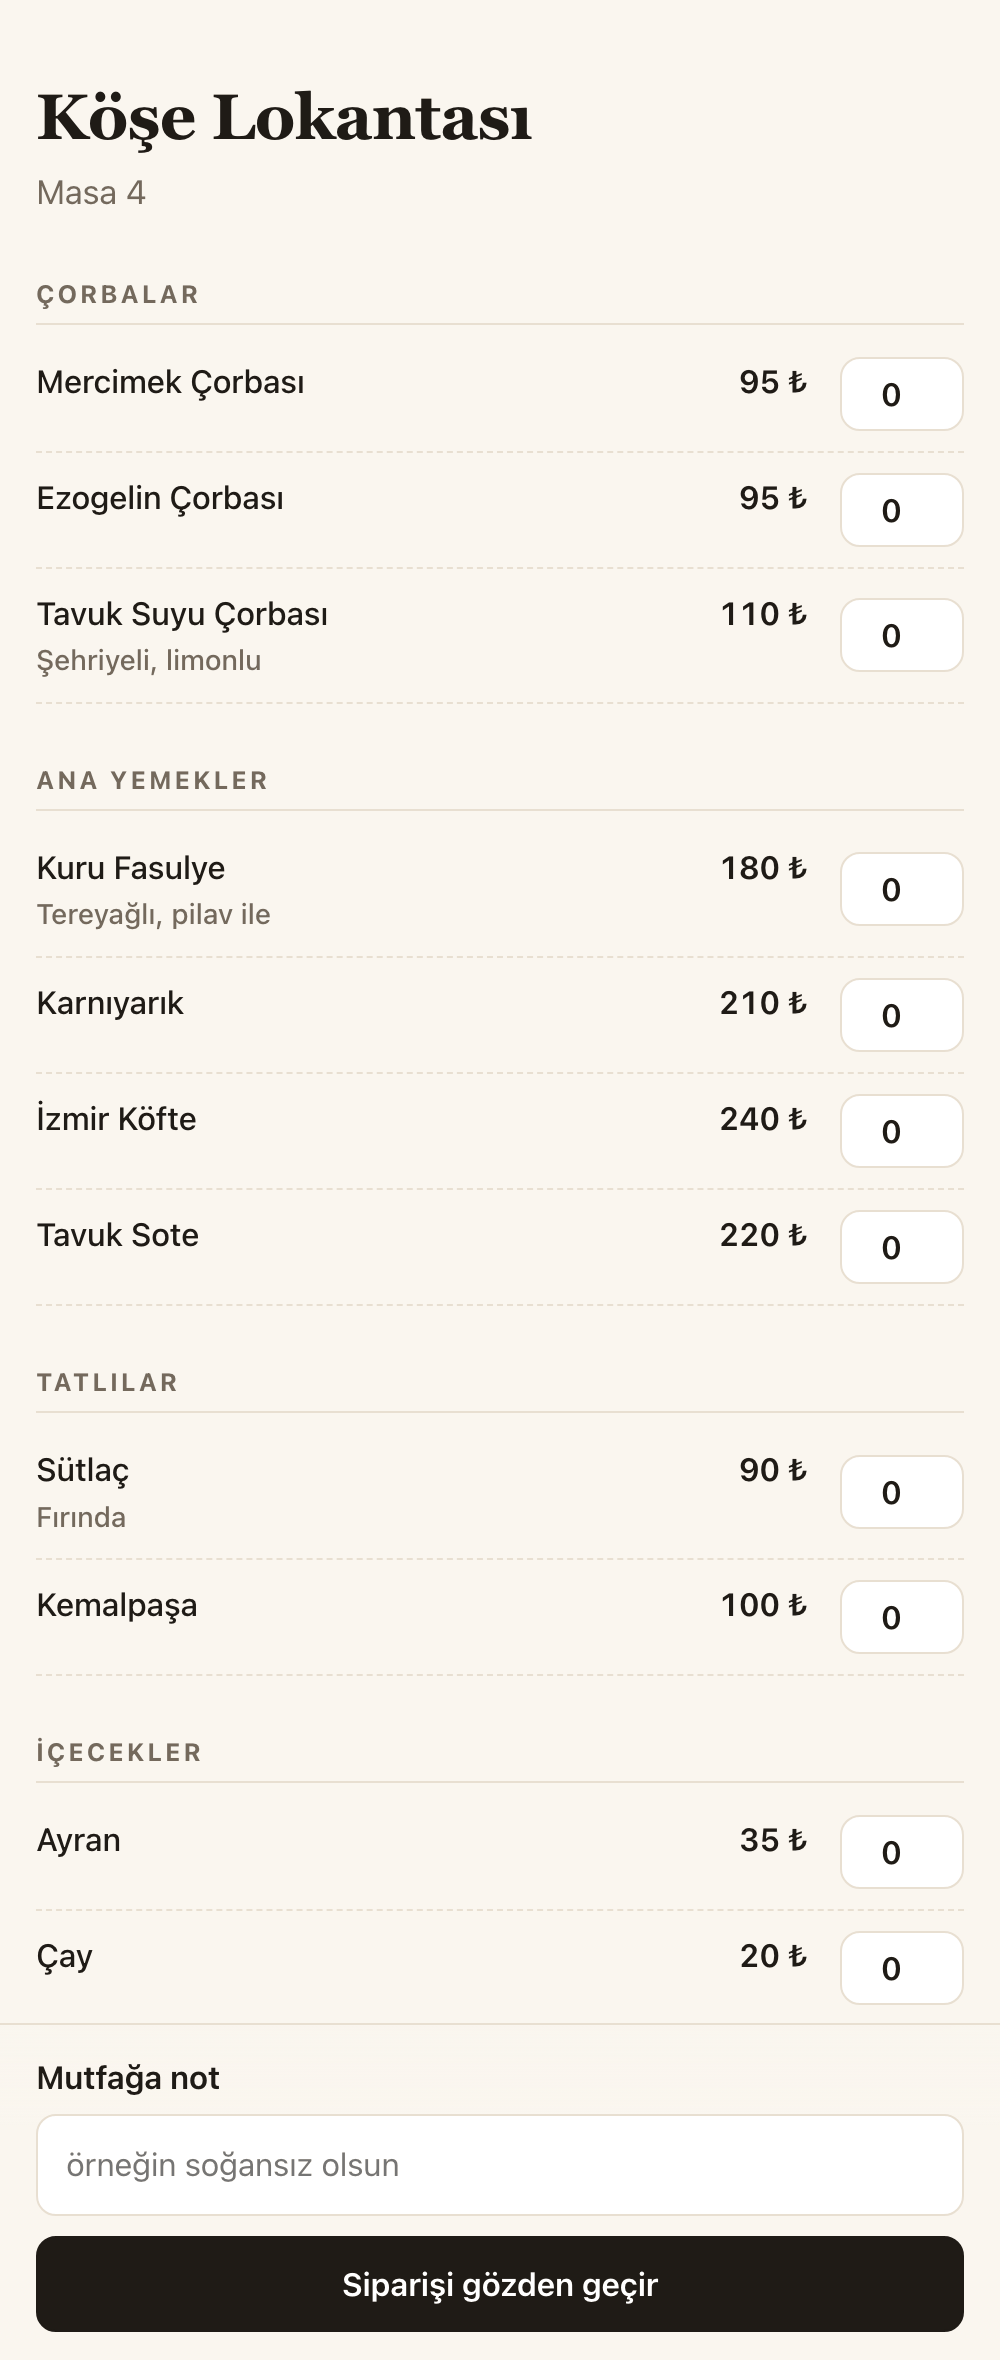
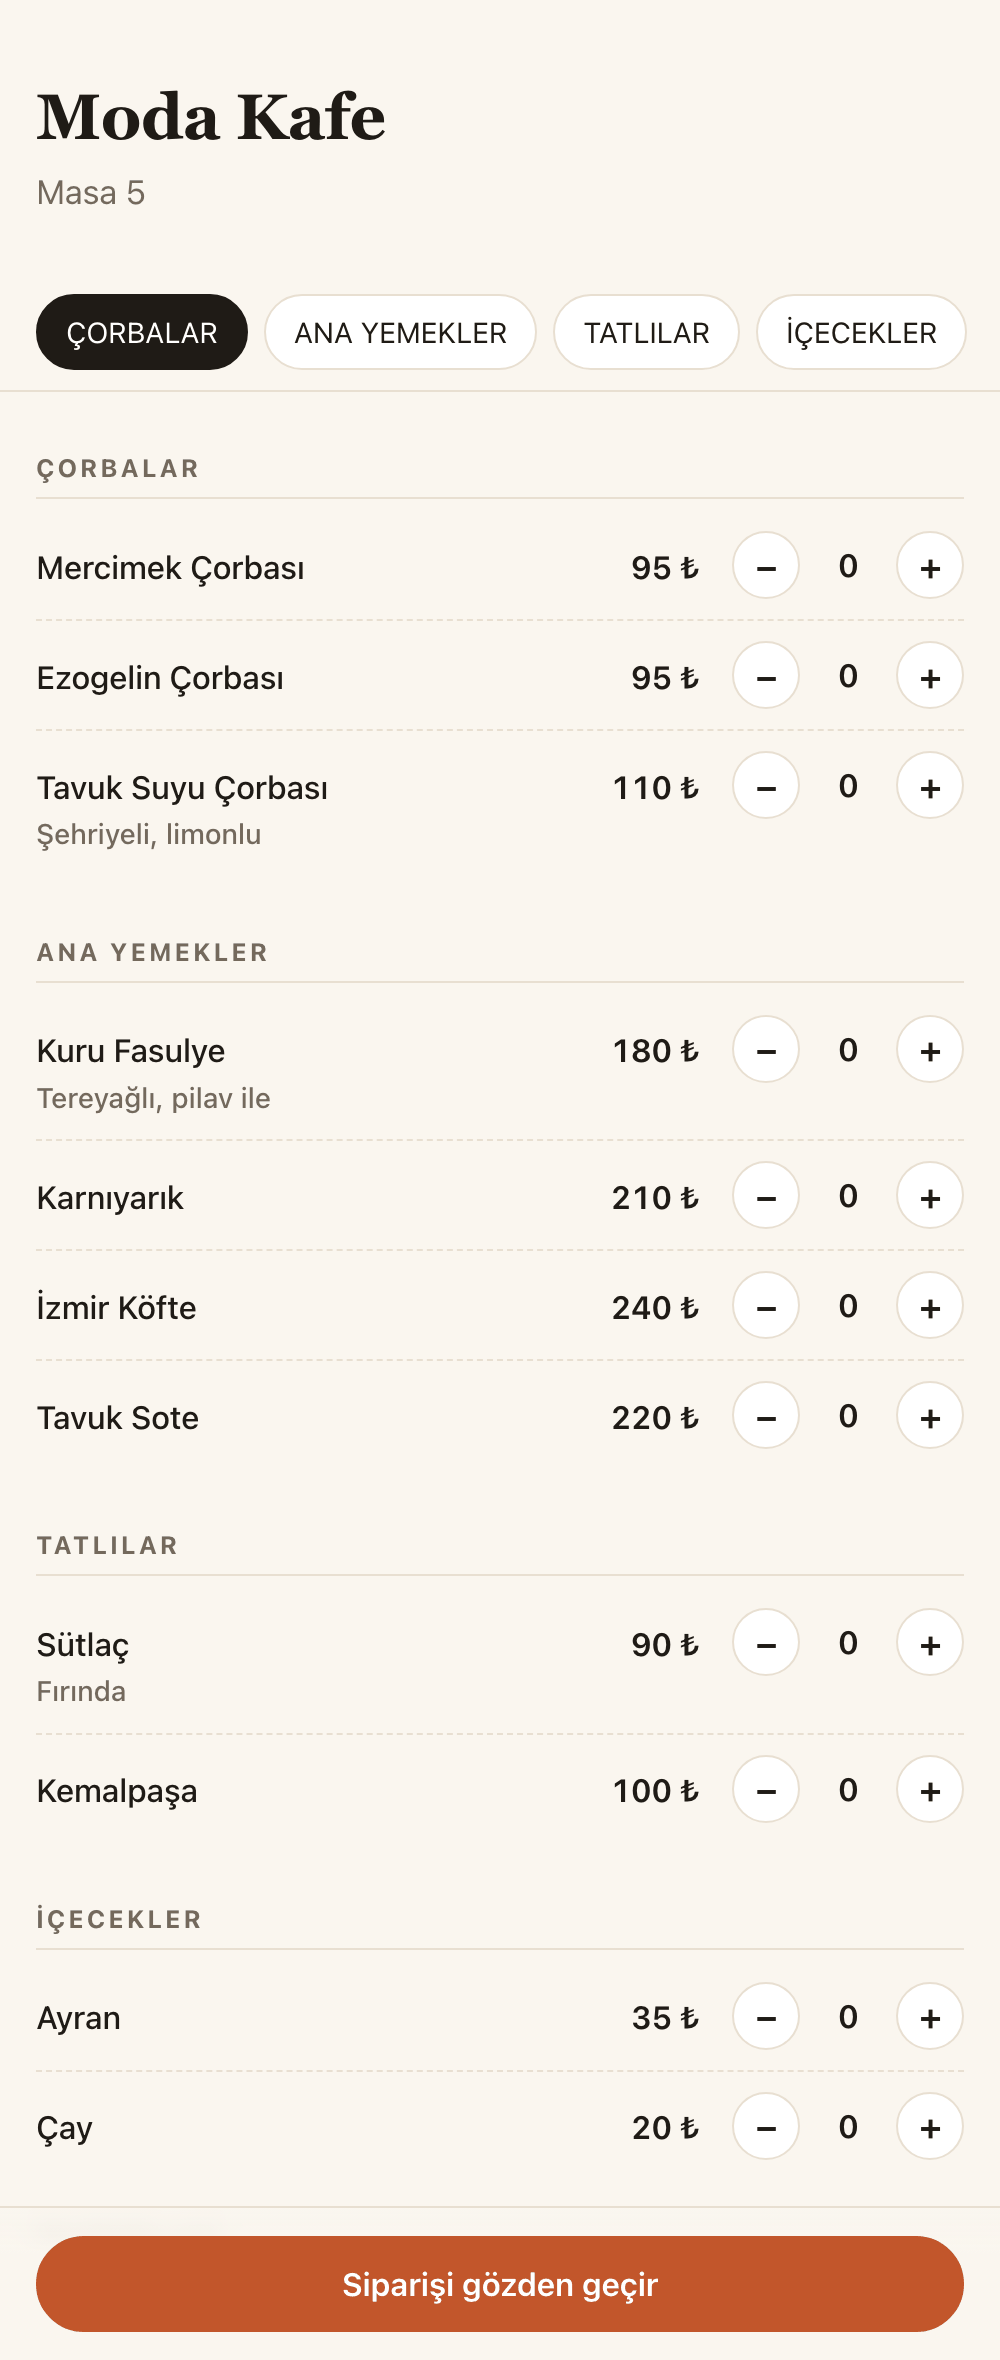
Add section tabs, steppers and a live total to the guest menu

diff --git a/src/Api/wwwroot/site.css b/src/Api/wwwroot/site.css
@@ -122,6 +122,39 @@ button:disabled { opacity: .4; cursor: not-allowed; }
 details { margin-top: 36px; }
 summary { cursor: pointer; font-weight: 600; padding: 12px 0; border-top: 1px solid var(--line); }
 
+/* Guest menu: section tabs stay on top, quantities step with one thumb */
+.tabs {
+    position: sticky;
+    top: 0;
+    z-index: 2;
+    display: flex;
+    gap: 8px;
+    overflow-x: auto;
+    scrollbar-width: none;
+    margin: 0 -18px 8px;
+    padding: 10px 18px;
+    background: var(--paper);
+    border-bottom: 1px solid var(--line);
+}
+.tabs::-webkit-scrollbar { display: none; }
+.tabs a {
+    flex: none;
+    padding: 7px 14px;
+    border: 1px solid var(--line);
+    border-radius: 999px;
+    background: var(--card);
+    color: var(--ink);
+    font-size: .9rem;
+    text-decoration: none;
+}
+.tabs a[aria-current] { background: var(--ink); border-color: var(--ink); color: #fff; }
+section[id] { scroll-margin-top: 64px; }
+.stepper { display: inline-flex; align-items: center; gap: 4px; }
+.step { display: none; width: 34px; height: 34px; padding: 0; border-radius: 999px; font-size: 1.1rem; line-height: 1; background: var(--card); color: var(--ink); border-color: var(--line); }
+.js .step { display: inline-flex; align-items: center; justify-content: center; }
+.js .item input.qty { width: 40px; border: 0; background: transparent; padding: 0; -moz-appearance: textfield; }
+.js .item input.qty::-webkit-inner-spin-button, .js .item input.qty::-webkit-outer-spin-button { -webkit-appearance: none; margin: 0; }
+
 /* Guest checkout stays within thumb reach on long menus */
 .checkout {
     position: sticky;
@@ -132,8 +165,8 @@ summary { cursor: pointer; font-weight: 600; padding: 12px 0; border-top: 1px so
     backdrop-filter: blur(6px);
     border-top: 1px solid var(--line);
 }
-.checkout label { margin-top: 0; }
-.checkout button { width: 100%; margin-top: 10px; padding: 15px; }
+.checkout button { width: 100%; padding: 15px; border-radius: 999px; background: var(--accent); border-color: var(--accent); }
+.checkout button:hover { background: #a94822; }
 
 /* QR cards */
 .qr { display: grid; grid-template-columns: repeat(auto-fill, minmax(190px, 1fr)); gap: 16px; }

diff --git a/src/Api/wwwroot/menu.js b/src/Api/wwwroot/menu.js
@@ -1,0 +1,41 @@
+// Display only: the server prices every order from the published menu, whatever this script shows.
+document.documentElement.classList.add("js");
+
+const form = document.querySelector("form[data-cart]");
+if (form) {
+    const lira = new Intl.NumberFormat("tr-TR", { maximumFractionDigits: 2 });
+    const total = form.querySelector("[data-cart-total]");
+    const fields = [...form.querySelectorAll("input.qty")];
+    const clamp = value => Math.min(20, Math.max(0, parseInt(value, 10) || 0));
+
+    const update = () => {
+        let count = 0, sum = 0;
+        for (const field of fields) {
+            count += clamp(field.value);
+            sum += clamp(field.value) * Number(field.dataset.price);
+        }
+        total.textContent = count ? `Sepet · ${count} ürün · ${lira.format(sum)} ₺` : "Siparişi gözden geçir";
+    };
+
+    form.addEventListener("click", event => {
+        const step = event.target.closest("[data-step]");
+        if (!step) return;
+        const field = step.parentElement.querySelector("input.qty");
+        field.value = clamp(field.value) + Number(step.dataset.step);
+        field.value = clamp(field.value);
+        update();
+    });
+    form.addEventListener("input", update);
+    update();
+
+    const tabs = new Map([...document.querySelectorAll(".tabs a")].map(a => [a.hash.slice(1), a]));
+    const watch = new IntersectionObserver(entries => {
+        for (const entry of entries.filter(e => e.isIntersecting)) {
+            tabs.forEach(tab => tab.removeAttribute("aria-current"));
+            const tab = tabs.get(entry.target.id);
+            tab?.setAttribute("aria-current", "true");
+            tab?.scrollIntoView({ block: "nearest", inline: "nearest" });
+        }
+    }, { rootMargin: "-25% 0px -70% 0px" });
+    form.querySelectorAll("section[id]").forEach(section => watch.observe(section));
+}
